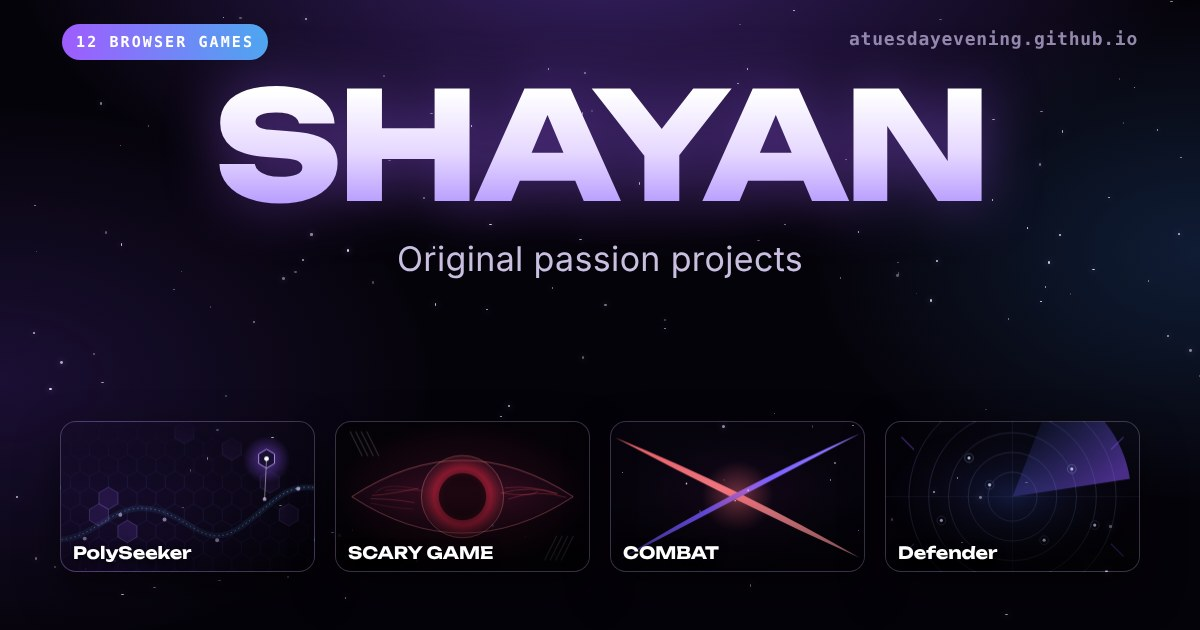
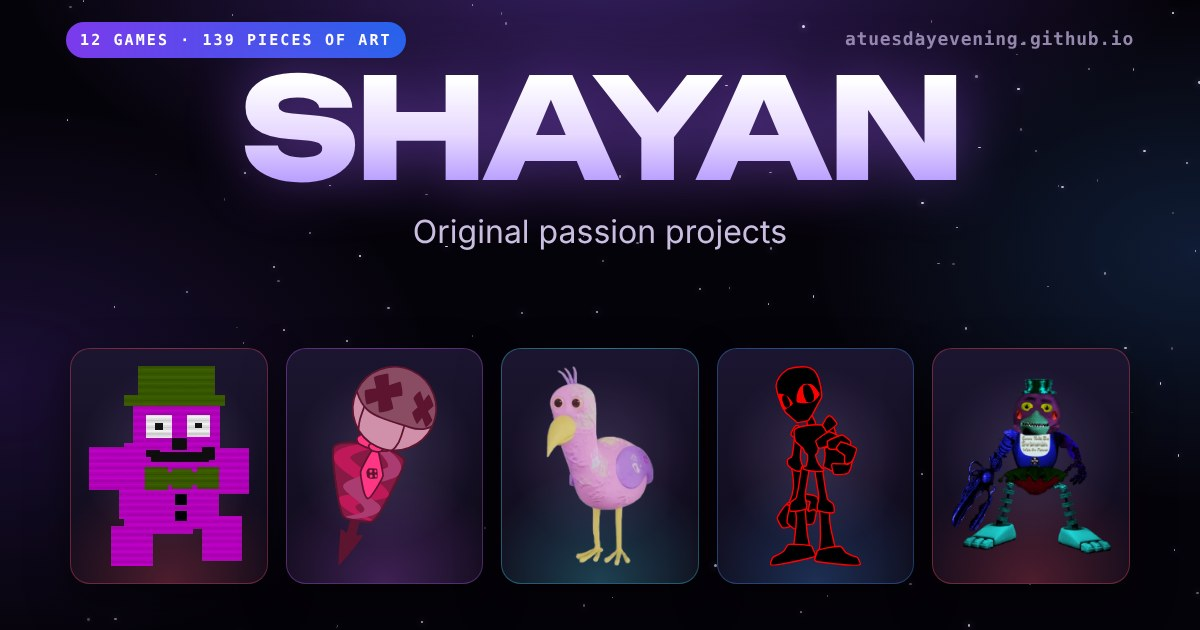
Social preview card now shows characters from the owner's games
Claude-Session: https://claude.ai/code/session_011Y2WmQQ68XDcY1Bg3QDvcD

diff --git a/index.html b/index.html
@@ -14,7 +14,7 @@
   <meta property="og:image" content="https://atuesdayevening.github.io/og-image.jpg" />
   <meta property="og:image:width" content="1200" />
   <meta property="og:image:height" content="630" />
-  <meta property="og:image:alt" content="SHAYAN: original passion projects, with covers for PolySeeker, SCARY GAME, COMBAT and Defender" />
+  <meta property="og:image:alt" content="SHAYAN: original passion projects. Five characters from Shayan's games on dark tiles under a starry sky." />
   <meta name="twitter:card" content="summary_large_image" />
   <meta name="twitter:site" content="@ATuesdayEvening" />
   <meta name="twitter:image" content="https://atuesdayevening.github.io/og-image.jpg" />

diff --git a/art.html b/art.html
@@ -14,6 +14,7 @@
   <meta property="og:image" content="https://atuesdayevening.github.io/og-image.jpg" />
   <meta property="og:image:width" content="1200" />
   <meta property="og:image:height" content="630" />
+  <meta property="og:image:alt" content="SHAYAN: original passion projects. Five characters from Shayan's games on dark tiles under a starry sky." />
   <meta name="twitter:card" content="summary_large_image" />
   <meta name="twitter:site" content="@ATuesdayEvening" />
   <link rel="canonical" href="https://atuesdayevening.github.io/art.html" />
